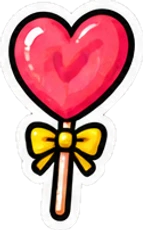
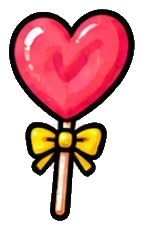
Bottons de aniversário: recorte refeito em 8 deles (sorvete, bala, pirulito, estrelas, corações, margarida, presente azul, chapéu): sem lascas cinza, sem pedaço solto e com contorno branco uniforme

diff --git a/src/lib/badges.ts b/src/lib/badges.ts
@@ -94,11 +94,11 @@ export const BADGES: readonly BadgeDef[] = [
   { key: 83, ratio: 0.965, name: "Estrela de festa" },
   { key: 84, ratio: 1.111, name: "Coroa de aniversário" },
   { key: 85, ratio: 0.961, name: "Flor rosa" },
-  { key: 86, ratio: 0.883, name: "Margarida de festa" },
+  { key: 86, ratio: 0.922, name: "Margarida de festa" },
   { key: 87, ratio: 0.778, name: "Balões" },
   { key: 88, ratio: 0.9, name: "Bolo de aniversário" },
-  { key: 89, ratio: 0.896, name: "Presente azul" },
-  { key: 90, ratio: 0.774, name: "Chapéu de festa" },
+  { key: 89, ratio: 0.9, name: "Presente azul" },
+  { key: 90, ratio: 0.784, name: "Chapéu de festa" },
   { key: 91, ratio: 1.361, name: "Feliz Aniversário" },
   { key: 92, ratio: 1.271, name: "Parabéns!" },
   { key: 93, ratio: 1.257, name: "Viva!" },
@@ -111,9 +111,9 @@ export const BADGES: readonly BadgeDef[] = [
   { key: 100, ratio: 0.983, name: "Bolo de chocolate" },
   { key: 101, ratio: 0.704, name: "Cupcake" },
   { key: 102, ratio: 0.63, name: "Cupcake rosa" },
-  { key: 103, ratio: 0.596, name: "Sorvete" },
-  { key: 104, ratio: 1.156, name: "Bala" },
-  { key: 105, ratio: 0.622, name: "Pirulito" },
+  { key: 103, ratio: 0.593, name: "Sorvete" },
+  { key: 104, ratio: 1.186, name: "Bala" },
+  { key: 105, ratio: 0.626, name: "Pirulito" },
   { key: 106, ratio: 1.144, name: "Rosquinha rosa" },
   { key: 107, ratio: 0.987, name: "Presente amarelo" },
   { key: 108, ratio: 0.874, name: "Presente turquesa" },
@@ -128,7 +128,7 @@ export const BADGES: readonly BadgeDef[] = [
   { key: 117, ratio: 1.1, name: "Estrelas de festa" },
   { key: 118, ratio: 1.361, name: "Arco-íris com estrela" },
   { key: 119, ratio: 0.809, name: "Buquê" },
-  { key: 120, ratio: 0.917, name: "Corações vermelhos" },
+  { key: 120, ratio: 0.911, name: "Corações vermelhos" },
   { key: 121, ratio: 1.949, name: "Bandeirinhas" },
   { key: 122, ratio: 0.97, name: "Laço rosa" },
   { key: 123, ratio: 0.791, name: "Velas de aniversário" },
